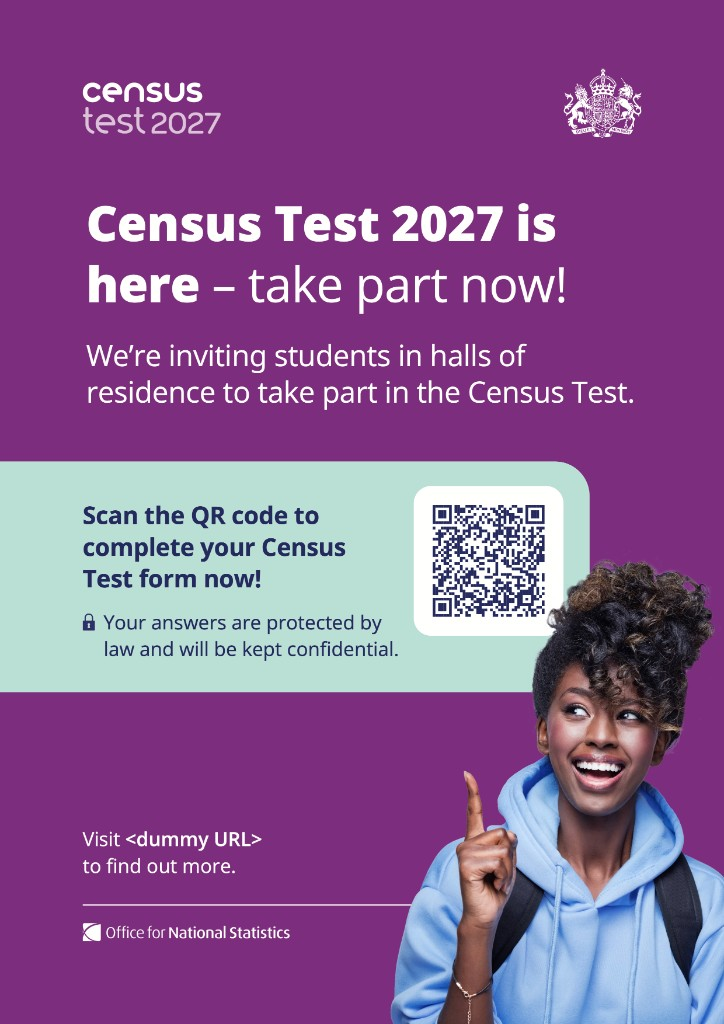
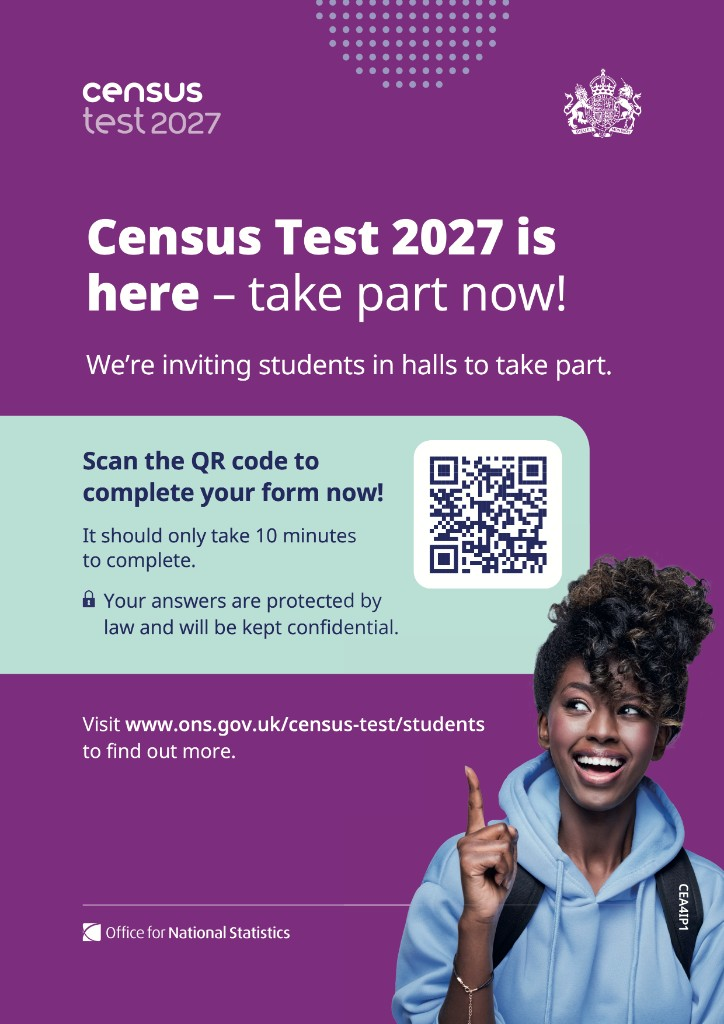
Landing page content updated and poster added

diff --git a/src/prototypes/student-in-halls/materials.js b/src/prototypes/student-in-halls/materials.js
@@ -5,7 +5,7 @@ Student in halls materials — crown / no-crown variants via ?crown=1|0
 (function () {
     const params = new URLSearchParams(window.location.search);
     const crown = params.get('crown') !== '0';
-    const crownQuery = crown ? 'crown=1' : 'crown=0';
+    const version = params.get('version');
     const rootPath = '/prototypes/student-in-halls';
 
     document.querySelectorAll('[data-material]').forEach((img) => {
@@ -18,6 +18,9 @@ Student in halls materials — crown / no-crown variants via ?crown=1|0
         const href = link.getAttribute('data-materials-link');
         const url = new URL(href, window.location.origin);
         url.searchParams.set('crown', crown ? '1' : '0');
+        if (version) {
+            url.searchParams.set('version', version);
+        }
         link.href = `${url.pathname}?${url.searchParams.toString()}`;
     });
 
